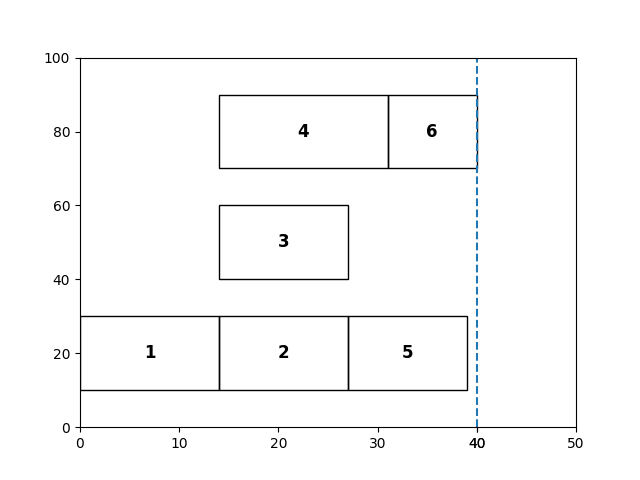
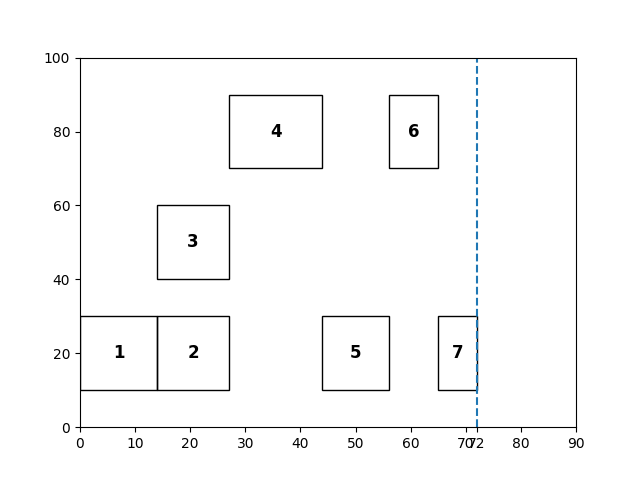
right schedule for sample3

diff --git a/src/platforms/memory.py b/src/platforms/memory.py
@@ -15,22 +15,27 @@ class Memory:
         self.slots = []
         self.size = size
 
-    def first_fit(self, size, interval, task, final=True, check=False):
+    def first_fit(self, size, interval, task, final=True, est=0):
         if size == 0:
             return True, None
+        est = max(est, interval[0])
+        interval = [est, est + interval[1] - interval[0]]
         overlap_slots = list(filter(
             lambda slot: slot.interval[0] < interval[1] and slot.interval[1] > interval[0], self.slots))
         if not overlap_slots:
             return True, self.allocate((0, size), interval, task, final)
+        
+        # if task.id == 5:
+        #     print(interval, overlap_slots)
         prev_addr = 0
         for slot in overlap_slots:
             if (slot.addr[0] - prev_addr) >= size:
                 return True, self.allocate([prev_addr, prev_addr+size],
-                              interval, task, final)
+                                           interval, task, final)
             prev_addr = max(slot.addr[1], prev_addr)
         if (self.size - prev_addr) >= size:
             return True, self.allocate([prev_addr, prev_addr+size], interval, task, final)
-        # # delay
+        # delay
         delay_to = min([slot.interval[1] for slot in overlap_slots])
         if delay_to == self.DEADLINE:
             return False, None
@@ -44,12 +49,13 @@ class Memory:
                           tid or slot.task.round != round, self.slots))
 
     def free_tensor(self, task, until):
-        target_slots = list(filter(lambda slot: slot.task is task and slot.final is False, self.slots))
+        target_slots = list(
+            filter(lambda slot: slot.task is task and slot.final is False, self.slots))
         if target_slots:
             target_slot = target_slots[0]
             target_slot.interval[1] = until
             target_slot.final = True
-    
+
     def free_buffer(self, task):
         print(task.id)
 
@@ -70,7 +76,7 @@ class Memory:
                              slot.size, alpha=1, color=color)
             fig.gca().add_patch(rect)
             rx, ry = rect.get_xy()
-            cx = rx+3
+            cx = rx+4
             cy = ry + rect.get_height()/2.0
 
             # print(slot.task.id sif slot.task else 'I', slot.pos, slot.length, slot.size)
@@ -113,5 +119,6 @@ class Slot:
 
     def __repr__(self):
         id = self.task.id if self.task else 'IO'
-        return f'\n(id: {id}, final: {self.final}, round: {self.task.round})'
+        # return f'\n(id: {id}, final: {self.final}, round: {self.task.round})'
         # return f'\n(id: {id}, start: {self.addr[0]}, end: {self.addr[1]})'
+        return f'\n(id: {id}, start: {self.interval[0]}, end: {self.interval[1]})'

diff --git a/src/algorithms/heft_lookup.py b/src/algorithms/heft_lookup.py
@@ -29,7 +29,7 @@ class HEFTLookup(AlgoBase):
         sorted_tasks = sorted(tasks, key=cmp_to_key(task_compare))
         self.schedule: list[list[Node]] = [[]
                                            for _ in range(len(self.entry_task.cost_table))]
-        sorted_tasks = sorted_tasks[:4]
+        sorted_tasks = sorted_tasks
         # for rollback
         self.round = 1
         for task in sorted_tasks:
@@ -114,7 +114,7 @@ class HEFTLookup(AlgoBase):
 
         # allocate internal buffer
         ok, slot = self.memory.first_fit(
-            task.buffer_size, [selected_ast, min_eft], task, check=check)
+            task.buffer_size, [selected_ast, min_eft], task, est=latest_start)
         if slot:
             latest_start = max(latest_start, slot.interval[0])
         checked = checked and ok
@@ -135,15 +135,16 @@ class HEFTLookup(AlgoBase):
                             break
                         until = max(until, out_edge.target.aft)
                     if last_use:
-                        until = max(until, min_eft)
+                        until = max(until, latest_start + (min_eft - selected_ast))
                         # print(until)
+                        print(task.id, 'free', in_edge.source.id, until)
                         self.memory.free_tensor(in_edge.source, until)
             self.reserved_list.append(task)
             task.procId = min_eft_procId + 1
-            task.ast = selected_ast
-            task.aft = min_eft
-            # task.ast = latest_start
-            # task.aft = latest_start + (min_eft - selected_ast)
+            # task.ast = selected_ast
+            # task.aft = min_eft
+            task.ast = latest_start
+            task.aft = latest_start + (min_eft - selected_ast)
             task.round = self.round
             self.schedule[min_eft_procId].append(task)
             # update makespan
@@ -157,6 +158,7 @@ class HEFTLookup(AlgoBase):
 
         print('rollback', task.id)
 
+        task.rollback()
         # rollback for children
         for edge in task.out_edges:
             self.rollback(edge.target, depth-1)

diff --git a/src/graph/node.py b/src/graph/node.py
@@ -20,6 +20,11 @@ class Node:
         self.procId: int = None
         self.output = output
         self.round = -1
+    
+    def rollback(self):
+        self.ast = None
+        self.aft = None
+        self.procId = None
 
     def __repr__(self):
         return str({

diff --git a/main.py b/main.py
@@ -17,7 +17,7 @@ Makespan = {makespan}
 END
 ---------------------------''')
 
-memory_size = 110
+memory_size = 100
 
 dag = DAG()
 dag.read_input('examples/sample.3.json')
